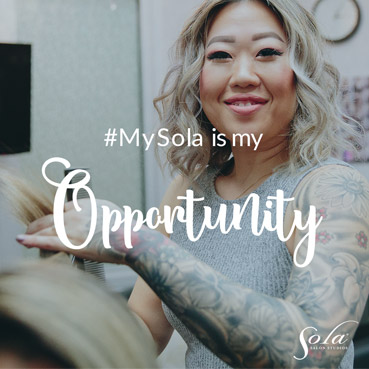
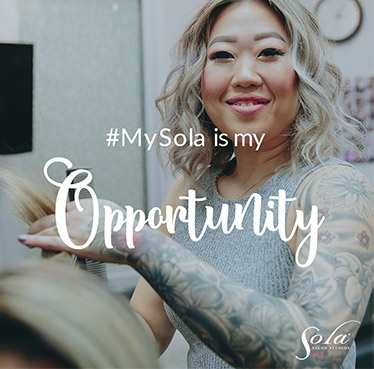
mysola hero images

diff --git a/app/assets/stylesheets/components/MySola.css.scss b/app/assets/stylesheets/components/MySola.css.scss
@@ -2,6 +2,7 @@
 @import 'bootstrap/mixins';
 
 .my-sola {
+  padding-top: 20px;
 
   .container {
     max-width: 320px;
